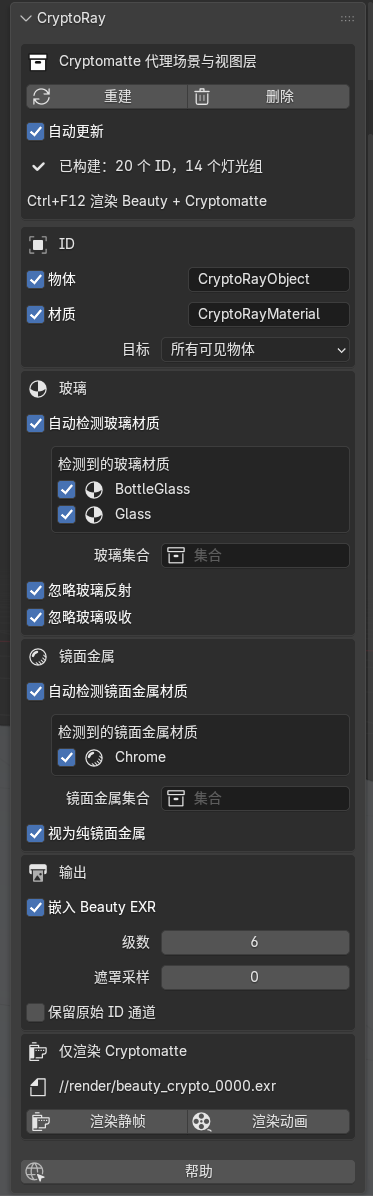
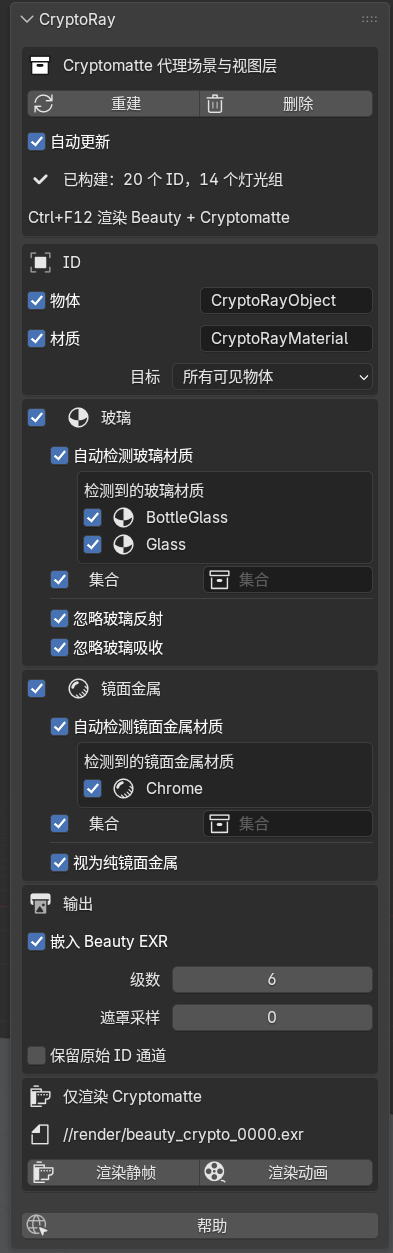
README for the Glass and Chrome toggles; full Collection label in the panel
- README (en, zh-CN, zh-TW): Glass / Chrome on/off checkboxes (Chrome off by
  default), Collection on/off checkbox, matte_role glass/chrome need the
  section ticked.
- New panel, Glass and Chrome screenshots in all three languages.
- Panel: the Collection label had been cut to "Collecti..."; label and field
  now share the row in a fixed split.

diff --git a/cryptoray/ui.py b/cryptoray/ui.py
@@ -77,9 +77,10 @@ def _collection_row(layout, s, toggle, prop):
     """[x] Collection [field]: the checkbox ignores the collection without clearing it."""
     row = layout.row(align=False)
     row.prop(s, toggle, text="")
-    sub = row.row()
-    sub.active = getattr(s, toggle)
-    sub.prop(s, prop, text="Collection")
+    split = row.split(factor=0.38)          # room for the whole word: the default split cuts it off
+    split.active = getattr(s, toggle)
+    split.label(text="Collection")
+    split.prop(s, prop, text="")
 
 
 class CRYPTORAY_PT_main(bpy.types.Panel):

diff --git a/README.zh-CN.md b/README.zh-CN.md
@@ -85,9 +85,10 @@
 
 <img src="docs/images/ui_glass.zh-CN.png" width="300" alt="玻璃部分">
 
+* **玻璃**（默认开启）：关闭后，玻璃像其他物体一样获得自己的 ID。
 * **自动检测玻璃材质**：根据材质找出玻璃。任何会折射的材质（玻璃 BSDF、折射 BSDF，或带透射的原理化 BSDF）都会列在这里。玻璃保留真实的着色器，因此会弯曲遮罩，它自己不获得 ID。同时含有玻璃和其他材质的物体（例如贴了纸标签的瓶子）会被拆分：标签获得 ID，玻璃照样折射。
 * **检测到的玻璃材质**：默认勾选。取消勾选后，该材质被当作普通表面，获得自己的 ID。
-* **玻璃集合**：可选。此集合中的整个物体都视为玻璃。
+* **集合**：可选。此集合中的整个物体都视为玻璃。取消勾选前面的勾选框即可忽略该集合，而不必清除它。
 * **忽略玻璃反射**（默认开启）：玻璃上的反射不带 ID，所以玻璃后面的东西得到完整的遮罩。关闭后，被反射的物体也会出现在玻璃中，混进遮罩里。
 
 <table>
@@ -119,9 +120,10 @@
 
 <img src="docs/images/ui_chrome.zh-CN.png" width="300" alt="镜面金属部分">
 
+* **镜面金属**（默认关闭）：勾选后可以看到镜面金属中反射的 ID。
 * **自动检测镜面金属材质**（默认开启）：根据材质找出金属：光泽 BSDF、各向异性 BSDF 或金属 BSDF，或者金属度大于 0 或由纹理驱动的原理化 BSDF，混合着色器和节点组中的也算。镜面金属反射出的东西都保留自己的 ID，就像透过玻璃看到的物体一样。ID 层使用镜面金属自己的着色器，所以粗糙金属会像模糊 Beauty 中的反射一样模糊反射出的 ID。
 * **检测到的镜面金属材质**：默认勾选。取消勾选后，该材质获得自己的完整 ID。
-* **镜面金属集合**：可选。此集合中物体的所有材质都像镜面金属一样反射 ID，无论是否被检测到（如果物体同时在玻璃集合中，以玻璃集合为准）。
+* **集合**：可选。此集合中物体的所有材质都像镜面金属一样反射 ID，无论是否被检测到（如果物体同时在玻璃集合中，以玻璃集合为准）。取消勾选前面的勾选框即可忽略该集合，而不必清除它。
 * **视为纯镜面金属**（默认开启）：镜面金属只显示它反射的东西，就像材质是纯镜面金属一样，即使它不完全是金属（金属度小于 1、纹理中的锈迹、混合中的漫射）。关闭后，物体自己的 ID 会按比例出现在这些地方：生锈的金属在金属处显示反射，在锈迹处显示自己的 ID。
 
 <table>
@@ -134,7 +136,7 @@
 <td>球是金属的地方，反射保留各自的 ID；锈迹处显示球自己的 ID（薄荷绿）。</td></tr>
 </table>
 
-也可以逐个物体添加自定义属性 `matte_role`：`"glass"`（视为玻璃）、`"chrome"`（视为镜面金属）、`"ignore"`（完全排除）或 `"other"`（遮挡后面的东西，但自己没有 ID）。
+也可以逐个物体添加自定义属性 `matte_role`：`"glass"`（视为玻璃）、`"chrome"`（视为镜面金属）、`"ignore"`（完全排除）或 `"other"`（遮挡后面的东西，但自己没有 ID）。`"glass"` 和 `"chrome"` 只在勾选了“玻璃”或“镜面金属”时才起作用。
 
 <img src="docs/images/ui_matte_role.zh-CN.png" width="374" alt="自定义属性 matte_role 设为 glass">
 

diff --git a/README.zh-TW.md b/README.zh-TW.md
@@ -85,9 +85,10 @@
 
 <img src="docs/images/ui_glass.zh-TW.png" width="300" alt="玻璃部分">
 
+* **玻璃**（預設開啟）：關閉後，玻璃像其他物件一樣獲得自己的 ID。
 * **自動偵測玻璃材質**：依材質找出玻璃。任何會折射的材質（玻璃 BSDF、折射 BSDF，或帶透射的原理化 BSDF）都會列在這裡。玻璃保留真實的著色器，因此會彎曲遮罩，它自己不獲得 ID。同時含有玻璃和其他材質的物件（例如貼了紙標籤的瓶子）會被拆分：標籤獲得 ID，玻璃照樣折射。
 * **偵測到的玻璃材質**：預設勾選。取消勾選後，該材質被當作一般表面，獲得自己的 ID。
-* **玻璃集合**：可選。此集合中的整個物件都視為玻璃。
+* **集盒**：可選。此集合中的整個物件都視為玻璃。取消勾選前面的勾選框即可忽略該集合，而不必清除它。
 * **忽略玻璃反射**（預設開啟）：玻璃上的反射不帶 ID，所以玻璃後面的東西得到完整的遮罩。關閉後，被反射的物件也會出現在玻璃中，混進遮罩裡。
 
 <table>
@@ -119,9 +120,10 @@
 
 <img src="docs/images/ui_chrome.zh-TW.png" width="300" alt="鏡面金屬部分">
 
+* **鏡面金屬**（預設關閉）：勾選後可以看到鏡面金屬中反射的 ID。
 * **自動偵測鏡面金屬材質**（預設開啟）：依材質找出金屬：光澤 BSDF、各向異性 BSDF 或金屬 BSDF，或者金屬度大於 0 或由紋理驅動的原理化 BSDF，混合著色器和節點群組中的也算。鏡面金屬反射出的東西都保留自己的 ID，就像透過玻璃看到的物件一樣。ID 圖層使用鏡面金屬自己的著色器，所以粗糙金屬會像模糊 Beauty 中的反射一樣模糊反射出的 ID。
 * **偵測到的鏡面金屬材質**：預設勾選。取消勾選後，該材質獲得自己的完整 ID。
-* **鏡面金屬集合**：可選。此集合中物件的所有材質都像鏡面金屬一樣反射 ID，無論是否被偵測到（如果物件同時在玻璃集合中，以玻璃集合為準）。
+* **集盒**：可選。此集合中物件的所有材質都像鏡面金屬一樣反射 ID，無論是否被偵測到（如果物件同時在玻璃集合中，以玻璃集合為準）。取消勾選前面的勾選框即可忽略該集合，而不必清除它。
 * **視為純鏡面金屬**（預設開啟）：鏡面金屬只顯示它反射的東西，就像材質是純鏡面金屬一樣，即使它不完全是金屬（金屬度小於 1、紋理中的鏽跡、混合中的漫射）。關閉後，物件自己的 ID 會按比例出現在這些地方：生鏽的金屬在金屬處顯示反射，在鏽跡處顯示自己的 ID。
 
 <table>
@@ -134,7 +136,7 @@
 <td>球是金屬的地方，反射保留各自的 ID；鏽跡處顯示球自己的 ID（薄荷綠）。</td></tr>
 </table>
 
-也可以逐一為物件加入自訂屬性 `matte_role`：`"glass"`（視為玻璃）、`"chrome"`（視為鏡面金屬）、`"ignore"`（完全排除）或 `"other"`（遮擋後面的東西，但自己沒有 ID）。
+也可以逐一為物件加入自訂屬性 `matte_role`：`"glass"`（視為玻璃）、`"chrome"`（視為鏡面金屬）、`"ignore"`（完全排除）或 `"other"`（遮擋後面的東西，但自己沒有 ID）。`"glass"` 和 `"chrome"` 只在勾選了「玻璃」或「鏡面金屬」時才起作用。
 
 <img src="docs/images/ui_matte_role.zh-TW.png" width="374" alt="自訂屬性 matte_role 設為 glass">
 

diff --git a/README.md b/README.md
@@ -94,12 +94,14 @@ When you're done, click **Delete**. It removes everything CryptoRay added. Rende
 
 <img src="docs/images/ui_glass.png" width="300" alt="Glass section">
 
+* **Glass** (on by default): off, glass gets its own ID like any other object.
 * **Detect Glass Materials:** finds glass by its material. Any material that refracts (Glass BSDF,
   Refraction BSDF, or Principled BSDF with Transmission) is listed here. Glass keeps its real shader so it
   bends the mattes, and gets no ID itself. An object with both glass and other materials (a bottle with a
   paper label) is split: the label gets an ID, the glass refracts.
 * **Detected glass materials:** ticked by default. Untick one to treat it as a normal surface with its own ID.
-* **Glass Collection:** optional. Whole objects in this collection are treated as glass.
+* **Collection:** optional. Whole objects in this collection are treated as glass. Untick the checkbox in
+  front of it to ignore the collection without clearing it.
 * **Ignore Glass Reflections** (on by default): reflections on glass don't carry IDs, so whatever is behind
   the glass gets a solid matte. Turn it off and reflected objects show up in the glass too, mixed into the
   matte.
@@ -135,14 +137,16 @@ yellow.*
 
 <img src="docs/images/ui_chrome.png" width="300" alt="Chrome section">
 
+* **Chrome** (off by default): tick it to see IDs reflected in chrome.
 * **Detect Chrome Materials** (on by default): finds metal by its material: a Glossy, Anisotropic or
   Metallic BSDF, or a Principled BSDF with Metallic above 0 or driven by a texture, also inside mixed shaders
   and node groups. Whatever chrome reflects keeps its own ID, just like objects seen through glass. The ID
   layer uses the chrome's own shader, so rough metal blurs the reflected IDs the same way it blurs the
   reflection in the beauty.
 * **Detected chrome materials:** ticked by default. Untick one to give that material its own, solid ID instead.
-* **Chrome Collection:** optional. Every material of the objects in this collection reflects IDs like
-  chrome, detected or not (Glass Collection wins if an object is in both).
+* **Collection:** optional. Every material of the objects in this collection reflects IDs like
+  chrome, detected or not (the glass collection wins if an object is in both). Untick the checkbox in front
+  of it to ignore the collection without clearing it.
 * **Treat as Pure Chrome** (on by default): chrome shows only what it reflects, as if the material were pure
   chrome, even where it isn't fully metal (Metallic below 1, rust in a texture, diffuse in a mix). Turn it off
   and the object's own ID shows there, in proportion: rusty metal shows reflections where it's metal and its
@@ -160,6 +164,7 @@ yellow.*
 
 Per object, you can also add the custom property `matte_role`: `"glass"` (treat as glass), `"chrome"`
 (treat as chrome), `"ignore"` (leave it out completely) or `"other"` (hides what's behind it but gets no ID).
+`"glass"` and `"chrome"` only work while the Glass or Chrome checkbox is ticked.
 
 <img src="docs/images/ui_matte_role.png" width="374" alt="Custom property matte_role set to glass">
 
